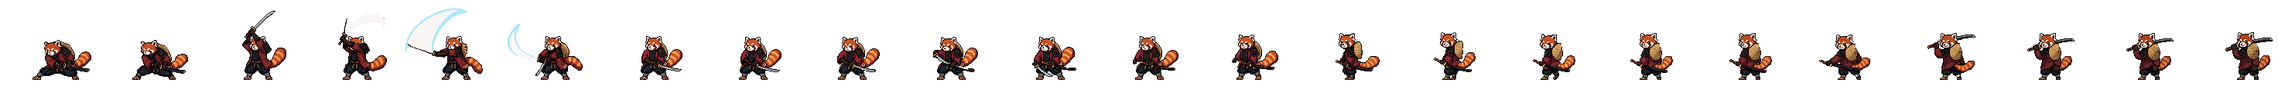
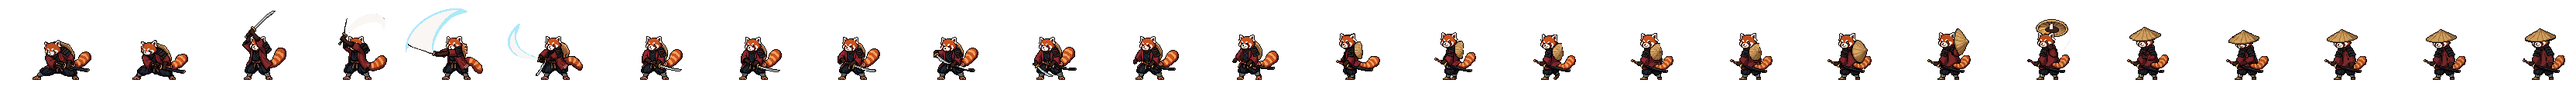
Samurai victory: ends with the kasa on, brim over his eyes, sword at his side
Claude-Session: https://claude.ai/code/session_01Na4BQSfsgPtUoSBxCa6yoU

Changed region(s): [[0.0, 0.1071, 1.0, 0.9375], [0.0938, 0.1339, 0.125, 0.2411]]

diff --git a/tools/build_attack.py b/tools/build_attack.py
@@ -83,10 +83,9 @@ EXTRA = {
     'ranger:f/victory': dict(base='ranger:f', ms=[130] * 9, loop=[[8, 650], [9, 650]]),
     # samurai (Andy's victory concept; PixelLab keyframes and in-betweens, tools/art-src/victory/): out of his iaido crouch he
     # draws and raises the blade high, slashes the air ('drawAt': the smear frame, where the game throws a gust of petals),
-    # flicks and sheathes it ('sheathAt': the click, when the blossoms start to fall), turns his back, lifts the sheathed
-    # katana up across his shoulders and holds the pose looking back, breathing. The raise keeps only PixelLab's first and
-    # last in-betweens (the middle ones drew the bare blade).
-    'samurai:m/victory': dict(base='samurai:m', ms=[140, 70, 220, 50, 50, 60, 80,  80, 90, 150, 110, 200, 260, 110, 110, 110, 120, 350,  140, 90, 100, 250], loop=[[21, 750], [22, 750]], sheathAt=11, drawAt=4),
+    # flicks and sheathes it ('sheathAt': the click, when the blossoms start to fall), turns his back, takes the kasa off his
+    # back and puts it on, brim pulled low over his eyes, and holds the pose with the sheathed sword at his side, breathing.
+    'samurai:m/victory': dict(base='samurai:m', ms=[140, 70, 220, 50, 50, 60, 80,  80, 90, 150, 110, 200, 260, 110, 110, 110, 120, 300,  120, 110, 110, 110, 100, 120, 250], loop=[[24, 750], [25, 750]], sheathAt=11, drawAt=4, keep=[(21, 25, (70, 53, 95, 63))]),
     # Champion's Combo (tools/assemble_combo.py): three slashes ('slashAt' = the frame each one lands on), lift the sword
     # up, hold it while the electric aura charges ('holdAt' = first and last held frame; 'blade' = blade length for the
     # aura), then the downward slash: the giant arc appears on 'arcAt' and the finisher lands on 'hit'.
@@ -147,7 +146,10 @@ def build(skin):
     out = Image.new('RGBA', (AW * n, AH * len(m['variants'])))
     for vi, hs in enumerate(m['variants']):
         for i in range(n):
-            out.alpha_composite(m['shade'](src.crop((i * AW, 0, (i + 1) * AW, AH)), hs), (i * AW, vi * AH))
+            fr = src.crop((i * AW, 0, (i + 1) * AW, AH)); sh = m['shade'](fr, hs)
+            for f0, f1, box in (m.get('keep') or []):   # areas that keep their colours in those frames (e.g. a face in shadow)
+                if hs and f0 <= i <= f1: sh.paste(fr.crop(box), box[:2])
+            out.alpha_composite(sh, (i * AW, vi * AH))
     name = m['sheet'] + '_' + mv + '.png'
     out.save(os.path.join(OUT_DIR, name))
     tips = None

diff --git a/README.md b/README.md
@@ -173,7 +173,7 @@ The built-in sprites are generated by a pixel rig in `public/js/sprites.js` (her
 
 Hero frames are 84×76 with the feet at (46, 72), facing left. Enemy frame sizes are in `ENEMY_DEF` in `sprites.js`, facing right. Anything not listed keeps the generated art. Add `"portrait": [x, y, w, h]` to a hero to crop its HUD portrait from the idle frame. Add `"variants": 3, "variantRows": 1` to put colour variants on extra rows.
 
-**The Samurai** (a red panda in a crimson haori) is the fifth class: *Precision*, 40 HP, Iai Cut (8) and Parry (8 block). Its signature is **Poised**: Still Mind, Kiai, Perfect Parry and Inner Calm make the samurai Poised, and the next basic attack or damaging skill deals double damage (blocks and buffs don't spend it; `spendsPoise` in `server/combat.js`). The rest of the pool rewards timing: Quickdraw and Moonlit Iai hit harder against an enemy at full health, Final Cut and Moonlit Iai against one below half. Its sprite is PixelLab concept A1 (`tools/art-src/samurai_base.png`, mirrored to face left), built by `python3 tools/build_ranger.py samurai:m` into 14 placeholder poses (lean, recoil, crouch, kneel) in crimson, indigo and jade (only the coat is recoloured, since the fur shares its reds). For now the Boy and Girl picks are the same red panda (`samurai:f` is an alias in the manifest), and it has no hand-animated moves yet, so it uses the generic dash-and-swing. **Samurai idle:** a low iaido crouch with a paw on the hilt of the sheathed katana, ready to draw (after Andy's ink reference), breathing with a swaying tail (a PixelLab idle loop, `tools/art-src/samurai_idle.png`); the strike frames use the blade-out stance, so he draws as he hits. **Samurai victory** (after Andy's victory concept sheet): out of the crouch he draws and raises the blade high, slashes the air (PixelLab's own smear arc; the game throws a gust of cherry blossom forward on `drawAt`), flicks and sheathes it (`sheathAt`: from the click, blossoms drift down around him, tumbling and settling, for as long as the win lasts; `_drawPetals` in `scene.js`), turns his back, lifts the sheathed katana up across his shoulders and holds that pose looking back, breathing. Keyframes are PixelLab `edit_image` (the turned hold pose is shrunk to his height with the head kept full size by `python3 tools/build_samurai_victory.py`), in-betweens `animate_image`; the sources are in `tools/art-src/victory/`, and `python3 tools/build_attack.py samurai:m/victory` builds the sheet (the coat is recoloured by crimson vs orange, so the fur never changes colour). The Animation Lab has a **Victory** button for every hero. His attacks will be themed on cherry blossoms and moons.
+**The Samurai** (a red panda in a crimson haori) is the fifth class: *Precision*, 40 HP, Iai Cut (8) and Parry (8 block). Its signature is **Poised**: Still Mind, Kiai, Perfect Parry and Inner Calm make the samurai Poised, and the next basic attack or damaging skill deals double damage (blocks and buffs don't spend it; `spendsPoise` in `server/combat.js`). The rest of the pool rewards timing: Quickdraw and Moonlit Iai hit harder against an enemy at full health, Final Cut and Moonlit Iai against one below half. Its sprite is PixelLab concept A1 (`tools/art-src/samurai_base.png`, mirrored to face left), built by `python3 tools/build_ranger.py samurai:m` into 14 placeholder poses (lean, recoil, crouch, kneel) in crimson, indigo and jade (only the coat is recoloured, since the fur shares its reds). For now the Boy and Girl picks are the same red panda (`samurai:f` is an alias in the manifest), and it has no hand-animated moves yet, so it uses the generic dash-and-swing. **Samurai idle:** a low iaido crouch with a paw on the hilt of the sheathed katana, ready to draw (after Andy's ink reference), breathing with a swaying tail (a PixelLab idle loop, `tools/art-src/samurai_idle.png`); the strike frames use the blade-out stance, so he draws as he hits. **Samurai victory** (after Andy's victory concept sheet): out of the crouch he draws and raises the blade high, slashes the air (PixelLab's own smear arc; the game throws a gust of cherry blossom forward on `drawAt`), flicks and sheathes it (`sheathAt`: from the click, blossoms drift down around him, tumbling and settling, for as long as the win lasts; `_drawPetals` in `scene.js`), turns his back, takes the straw kasa off his back and puts it on with the brim pulled low over his eyes, and holds the pose with the sheathed sword at his side, breathing. Keyframes are PixelLab `edit_image` (the turned hold pose is shrunk to his height with the head kept full size by `python3 tools/build_samurai_victory.py`), in-betweens `animate_image`; the sources are in `tools/art-src/victory/`, and `python3 tools/build_attack.py samurai:m/victory` builds the sheet (the coat is recoloured by crimson vs orange, so the fur never changes colour). The Animation Lab has a **Victory** button for every hero. His attacks will be themed on cherry blossoms and moons.
 
 **All heroes are Andy's own sprites, in a boy and a girl version.** Hero art is keyed `class:gender` in the manifest (`knight:m`, `mage:f`, …); the server gives each hero a `skin` and every portrait and sprite uses it. The girl knight (`tools/art-src/knight_f_base.png`) is built by `build_ranger.py` like the clerics and rangers. Every hero's idle loop was animated by PixelLab (`animate_image`, 4 frames played 0-1-2-1 so it loops smoothly); the mages' flames flicker in it. The source strips are `tools/art-src/<sheet>_idle.png`. PixelLab made the knight, boy cleric and girl ranger blink, so `python3 tools/fix_blink.py knight cleric_m ranger_f` pastes the open-eyed face from the first frame onto the others (following the head if it moved); re-run it on any new idle strip that blinks. `python3 tools/build_knight.py`, `tools/build_mage.py` (both mages: the staff is moved to the free hand and re-angled per pose; the flame grows for spells and goes out when knocked down) and `tools/build_ranger.py` (both rangers and both clerics: whole-sprite lean, recoil, crouch and kneel) build the other poses and three colour variants. Heroes are matched to the knight's height (about 55px, feet to head): `build_ranger.py` shrinks the girl cleric to 85%, the boy cleric to 93% and the girl ranger to 95% with a nearest-neighbour pass about the feet, so pixels stay crisp and every pose shrinks the same way. The mages are about 2px shorter and are left as drawn, since enlarging pixel art doubles pixels. All have a 14th pose, `sit`, used at the campfire. **Knight special slash.** Both knights attack with a hand-animated move made in PixelLab: a shoulder-charge dash with the sword trailing behind, a plant, the sword swung overhead, then a downward slash (12–14 frames, about 1.1 s). The charge pose was made with PixelLab `edit_image` from the idle frame, the in-betweens with `animate_image` pinned between keyframes. Source strips are `tools/art-src/atk/<sheet>_slash_src.png` (128×112 frames, feet at 80,104); `python3 tools/build_attack.py` recolours them for the three cape colours, writes `public/art/<sheet>_slash.png` and adds `anims.slash` to the manifest (frame times, the hit frame, the trail frame, how far she dashes). In battle (`_bigSlash` in `scene.js`) the camera eases in about 14% on the knight, the screen edges darken, a pale crescent after-image follows the sword's path, and the screen shakes on the hit. **Cleric smite.** Both clerics cast their attack from where they stand: they raise the staff overhead while chanting (the mouth moves), then slam it down, and yellow lightning strikes the enemy from the top of the screen (`skyStrike` in `scene.js`: a forked bolt, a flash, a glow and sparks). Same pipeline: `tools/art-src/atk/<sheet>_smite_src.png` → `build_attack.py` → `anims.smite` with `cast: true` (no dash, gentler 10% zoom) and a `strike` frame. Any hero can get a move the same way: add an entry to `MOVES` in `build_attack.py` keyed by the attack's effect name.
 
